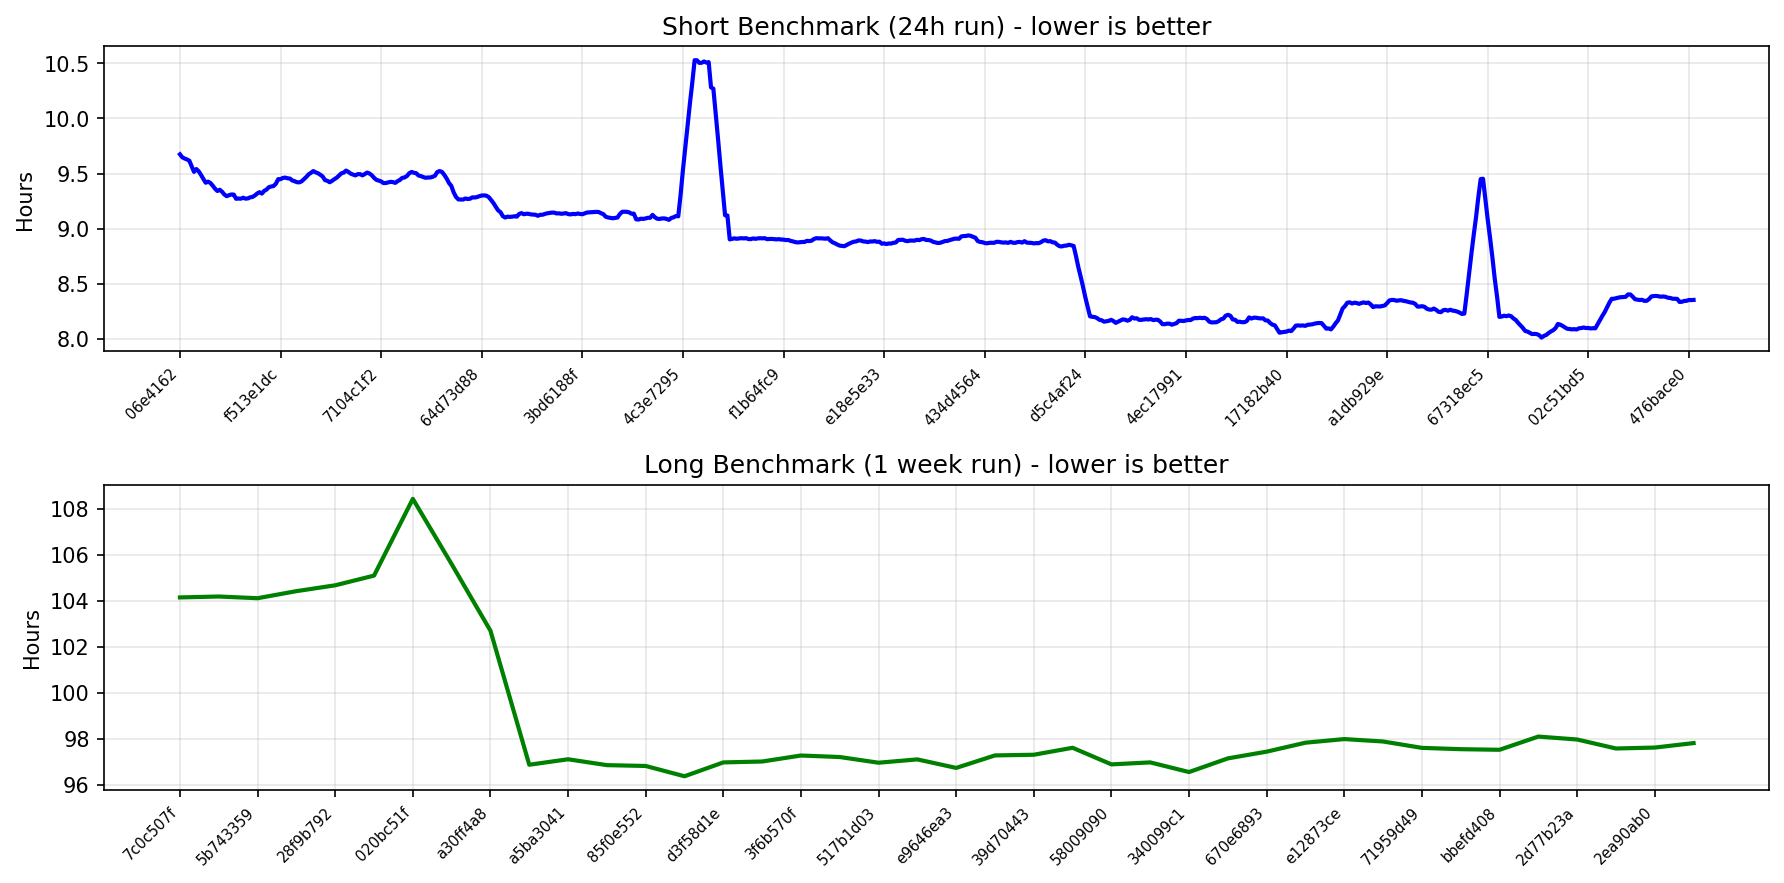
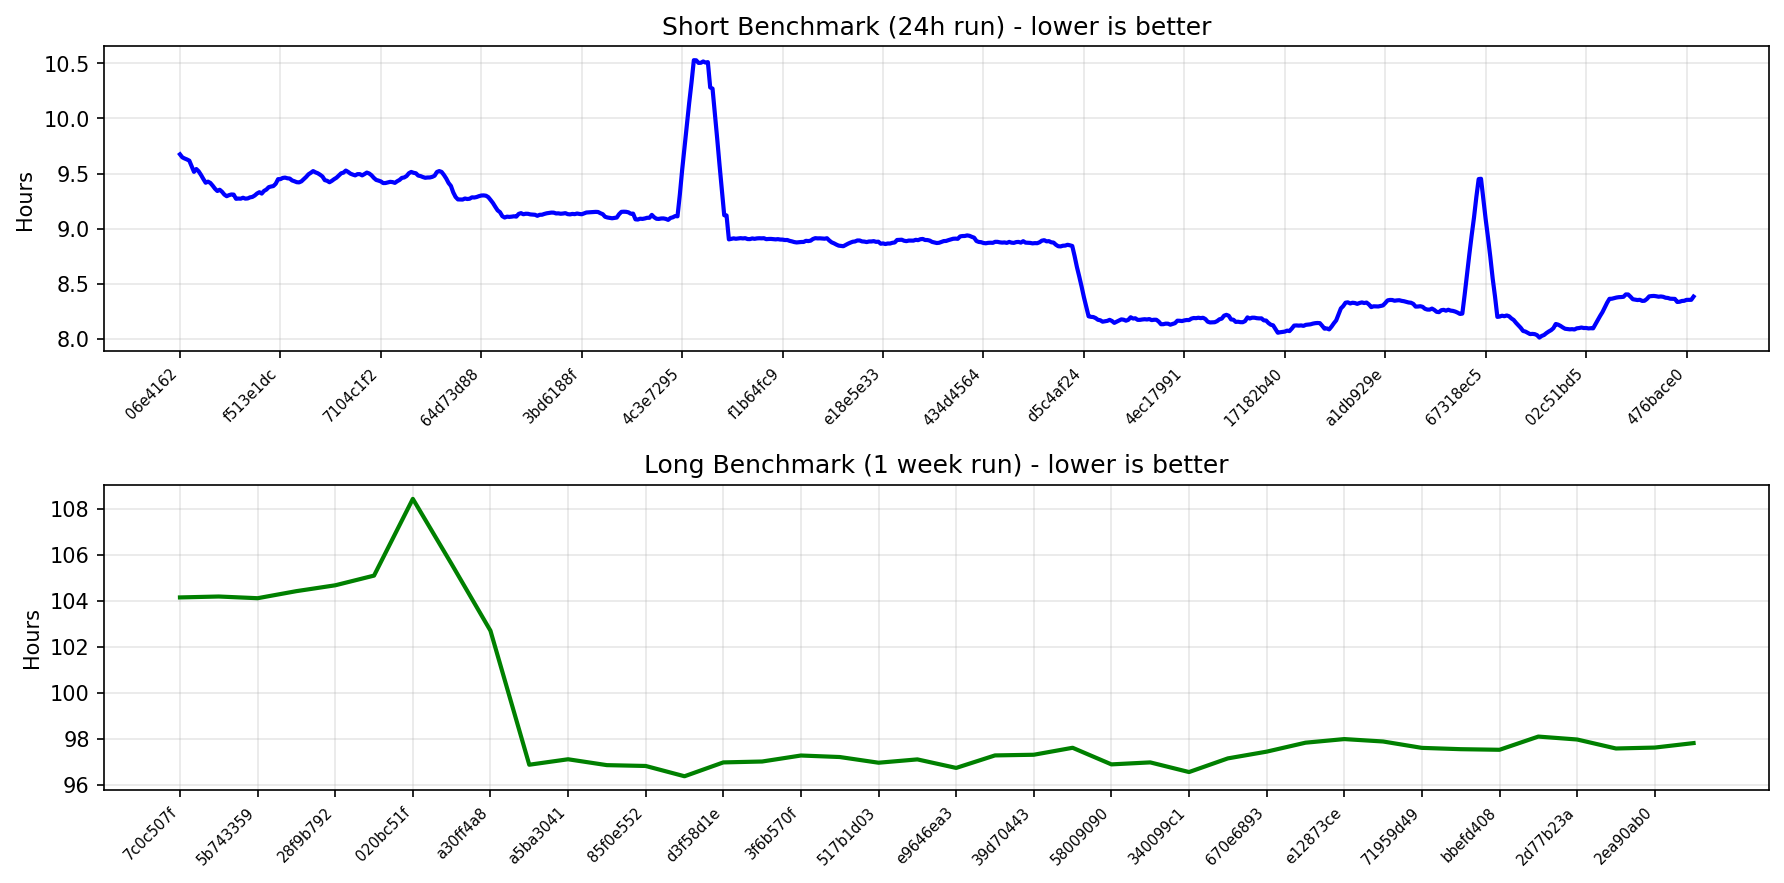
chore: update short benchmark Readme

diff --git a/README.md b/README.md
@@ -12,11 +12,11 @@ This repository contains various eth1 import benchmark metrics.
 
 | Generated At | Baseline SHA | Contender SHA | Baseline Time | Contender Time | Time Delta |
 |--------------|--------------|---------------|---------------|----------------|------------|
+| 2026-05-12 14:35:52 | [48118707](https://github.com/status-im/nimbus-eth1/commit/48118707) | [1d7f4502](https://github.com/status-im/nimbus-eth1/commit/1d7f4502) | 8h22m46s | 8h23m17s | 31s, 0.10% |
 | 2026-05-12 05:57:45 | [6c93dcd0](https://github.com/status-im/nimbus-eth1/commit/6c93dcd0) | [48118707](https://github.com/status-im/nimbus-eth1/commit/48118707) | 8h22m55s | 8h22m46s | -8s, -0.03% |
 | 2026-05-11 21:19:32 | [476bace0](https://github.com/status-im/nimbus-eth1/commit/476bace0) | [6c93dcd0](https://github.com/status-im/nimbus-eth1/commit/6c93dcd0) | 8h23m17s | 8h22m55s | -22s, -0.07% |
 | 2026-05-11 12:41:01 | [8486b84e](https://github.com/status-im/nimbus-eth1/commit/8486b84e) | [476bace0](https://github.com/status-im/nimbus-eth1/commit/476bace0) | 8h10m35s | 8h23m17s | 12m41s, 2.59% |
 | 2026-05-11 04:15:33 | [e90b071b](https://github.com/status-im/nimbus-eth1/commit/e90b071b) | [8486b84e](https://github.com/status-im/nimbus-eth1/commit/8486b84e) | 8h22m40s | 8h10m35s | -12m4s, -2.40% |
-| 2026-05-10 19:37:40 | [fd0c1a2d](https://github.com/status-im/nimbus-eth1/commit/fd0c1a2d) | [e90b071b](https://github.com/status-im/nimbus-eth1/commit/e90b071b) | 8h23m17s | 8h22m40s | -37s, -0.12% |
 
 ## Latest 5 Long Benchmarks (1 Week Run)
 
